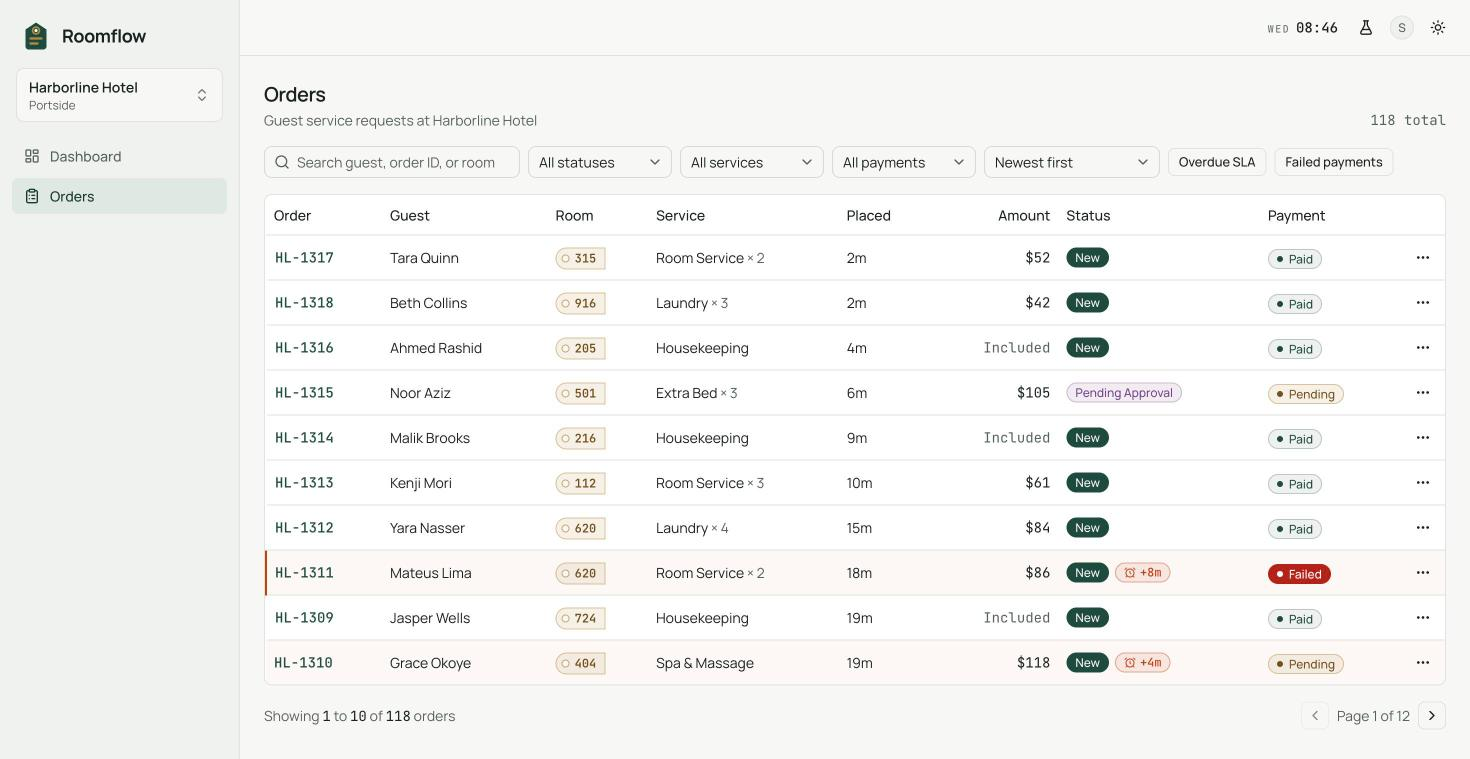
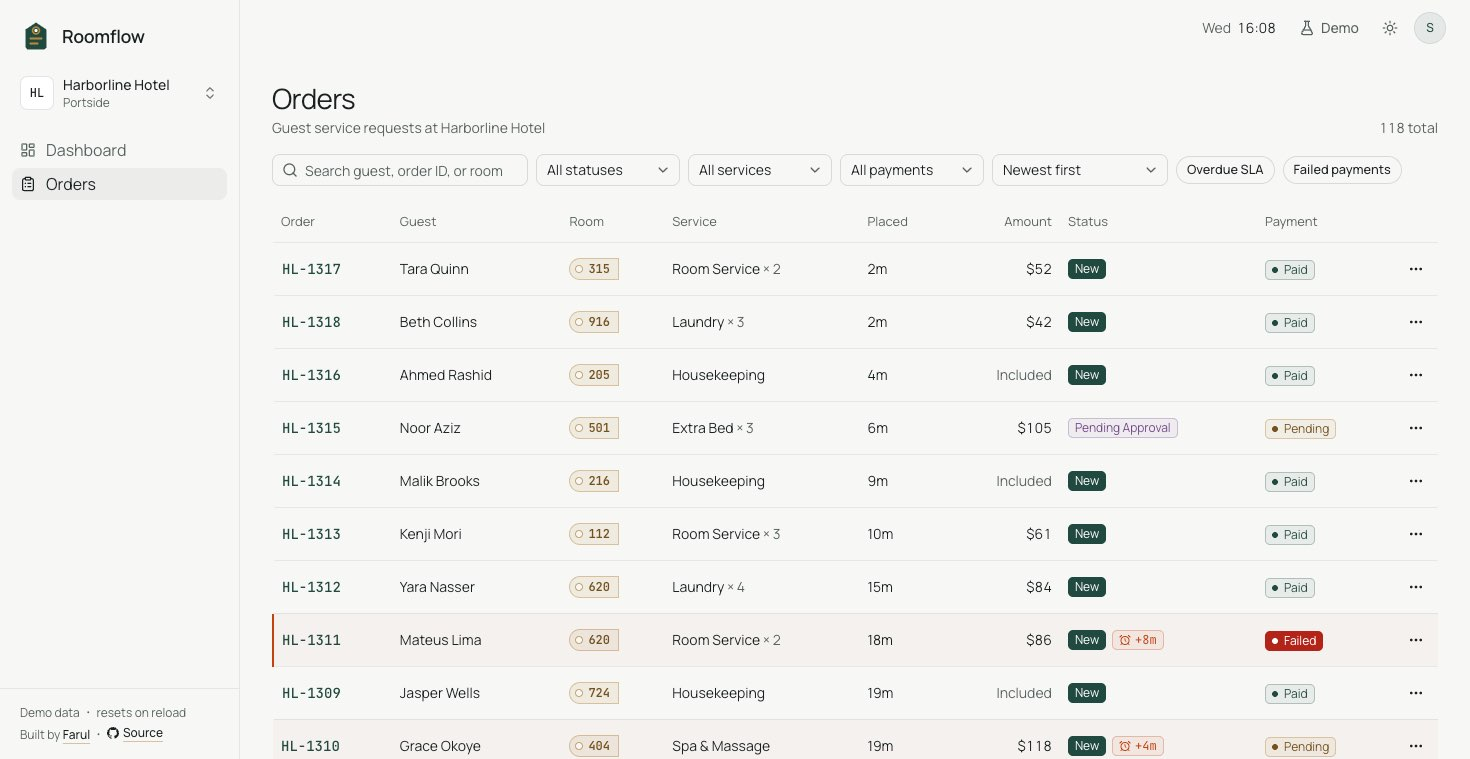
docs: refresh the screenshot and stack notes
The README screenshot shows the new look. The dashboard description,
the Recharts row and the folder notes now describe one chart, the
today summary and the top-services list.

diff --git a/README.md b/README.md
@@ -9,7 +9,7 @@ A guest-service dashboard for hotel staff. Room service, housekeeping, laundry, 
 ## Features
 
 - **Three hotels, one console.** A hotel switcher scopes everything to one property. The hotel is part of the URL, so a shared link always opens the right one.
-- **Dashboard:** active guests, open orders, revenue today, completed today, average order value and SLA breaches. Also the top services, orders by hour, and a "needs attention" queue.
+- **Dashboard:** today's orders hour by hour, with revenue and average order value; open orders, SLA breaches, active guests and completed orders; a "needs attention" queue; and the top services.
 - **Orders list:**
   - search by guest, order ID or room
   - filters for status, service, payment and overdue orders, which combine
@@ -39,7 +39,7 @@ A guest-service dashboard for hotel staff. Room service, housekeeping, laundry, 
 | [React Router](https://reactrouter.com) v8           | Hotel-scoped routes, list state in the URL, a routed details drawer                          |
 | react-hook-form + [Zod](https://zod.dev) 4           | Form types come from the schema; Zod also checks the stored session and demo settings        |
 | [MSW](https://mswjs.io) v2                           | A mock backend at the network boundary, so the app code is written exactly as for a real API |
-| Recharts                                             | The two dashboard charts, loaded only with the dashboard                                     |
+| Recharts                                             | The orders-by-hour chart, loaded only with the dashboard                                     |
 | `bun test` + Testing Library + happy-dom             | Fast unit, hook and component tests                                                          |
 | Cloudflare Workers                                   | Serves the static build from the edge, on the same platform as the domain                    |
 
@@ -85,7 +85,7 @@ src/
 
 Code depends in one direction: UI → query hooks → API client → domain. The domain imports nothing and holds every business rule, and the mock backend reuses the same functions. That's why the UI and the API can't disagree about which status changes are legal.
 
-Each feature keeps the same file roles: `api.ts` for endpoints, `queries.ts` and `mutations.ts` for data hooks, then components. Components either show data (badges, KPI cards, empty states) or compose a page; they don't fetch on their own.
+Each feature keeps the same file roles: `api.ts` for endpoints, `queries.ts` and `mutations.ts` for data hooks, then components. Components either show data (badges, amounts, empty states) or compose a page; they don't fetch on their own.
 
 The full write-up is in [docs/ARCHITECTURE.md](docs/ARCHITECTURE.md).
 

diff --git a/docs/ARCHITECTURE.md b/docs/ARCHITECTURE.md
@@ -14,7 +14,7 @@ How Roomflow is put together, and why. The [README](../README.md) covers what th
 | React Router v8 (data router)          | Hotel-scoped routes, URL-driven list state, a routed details drawer                                                       |
 | react-hook-form + Zod 4                | Schema-first forms; Zod also validates the session and demo settings read back from `localStorage`                        |
 | MSW v2 (browser)                       | The backend: intercepts real `fetch` calls at the network boundary, in dev and in the deployed build                      |
-| Recharts (via shadcn charts)           | The two dashboard charts; lazy-loaded with the dashboard route                                                            |
+| Recharts (via shadcn charts)           | The orders-by-hour chart; lazy-loaded with the dashboard route                                                            |
 | bun test + Testing Library + happy-dom | Unit tests for the domain and mock database, component and hook tests for the UI                                          |
 | Cloudflare Workers (static assets)     | Hosting: the built files served from the edge, with the custom domain on the same account                                 |
 
@@ -58,11 +58,11 @@ src/
   app/          # router, providers, app shell, route guards, hotel scope, status screens
   components/
     ui/         # shadcn/ui primitives (CLI-generated, then themed)
-    shared/     # badges, RoomTag, BrandMark, empty/error/stale-data states, page header
+    shared/     # badges, RoomTag, Amount, BrandMark, empty/error/stale-data states, page header
   domain/       # business rules and shared types, fully unit-tested
   features/
     auth/       # login page, session context, login schema
-    dashboard/  # KPI cards, charts, needs-attention list (lazy-loaded route)
+    dashboard/  # today summary, orders chart, needs-attention list, top services (lazy-loaded route)
     hotels/     # hotel list query, current-hotel context, hotel switcher
     orders/     # list page, toolbar, table and cards, details sheet, actions, confirm dialog
     simulator/  # demo controls and the incoming-order simulation
